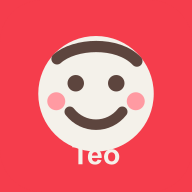
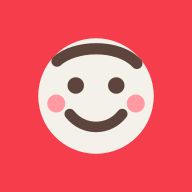
feat: harden hosting and add link previews for the friends launch
The live site served hashed bundles with max-age=0, answered robots.txt and
missing audio with the app page, sent only HSTS, and the link we will share
in chats had no preview. Hosting now caches hashed assets for a year, keeps
the friends build out of search results, limits browser permissions to the
microphone the recorder needs, forbids framing, and lets missing files 404.
The app icon drops the old Teo lettering, and Open Graph tags plus a
generated preview image make shared links readable.

diff --git a/src/pwa/pwaConfig.ts b/src/pwa/pwaConfig.ts
@@ -20,6 +20,8 @@ export const pwaBrand = {
   description: 'Slovenská predškolská aplikácia s hrami a rodičmi nahratým obsahom.',
   themeColor: '#F53D4C',
   backgroundColor: '#F4F1EA',
+  // Link previews need absolute URLs; this is the friends-and-family address.
+  siteUrl: 'https://mudrolino.vercel.app',
 } as const;
 
 export const pwaIcons = {
@@ -28,7 +30,27 @@ export const pwaIcons = {
   maskable512: '/pwa/pwa-maskable-512x512.png',
   appleTouch: '/pwa/apple-touch-icon.png',
   faviconSvg: '/pwa/teo-icon-source.svg',
+  openGraph: '/pwa/og-image.png',
 } as const;
+
+function meta(attrs: Record<string, string>): HtmlTagDescriptor {
+  return { tag: 'meta', attrs, injectTo: 'head' };
+}
+
+// Shared links (WhatsApp, Messenger, iMessage) render these as a preview card.
+const openGraphTags: HtmlTagDescriptor[] = [
+  meta({ name: 'description', content: pwaBrand.description }),
+  meta({ property: 'og:type', content: 'website' }),
+  meta({ property: 'og:site_name', content: pwaBrand.appName }),
+  meta({ property: 'og:title', content: pwaBrand.appName }),
+  meta({ property: 'og:description', content: pwaBrand.description }),
+  meta({ property: 'og:url', content: `${pwaBrand.siteUrl}/` }),
+  meta({ property: 'og:image', content: `${pwaBrand.siteUrl}${pwaIcons.openGraph}` }),
+  meta({ property: 'og:image:width', content: '1200' }),
+  meta({ property: 'og:image:height', content: '630' }),
+  meta({ property: 'og:locale', content: 'sk_SK' }),
+  meta({ name: 'twitter:card', content: 'summary_large_image' }),
+];
 
 export const pwaHtmlTitle = pwaBrand.appName;
 
@@ -92,6 +114,7 @@ export const pwaHtmlHeadTags: HtmlTagDescriptor[] = [
     },
     injectTo: 'head',
   },
+  ...openGraphTags,
 ];
 
 export const pwaControlCopy = {

diff --git a/src/pwa/pwaConfig.verify.ts b/src/pwa/pwaConfig.verify.ts
@@ -49,6 +49,18 @@ assert(
   'html head tags include a PNG favicon fallback',
 );
 
+const metaContent = (key: 'name' | 'property', value: string) =>
+  pwaHtmlHeadTags.find((tag) => tag.tag === 'meta' && tag.attrs?.[key] === value)?.attrs?.content;
+assert(pwaBrand.siteUrl.startsWith('https://') && !pwaBrand.siteUrl.endsWith('/'), 'site URL is absolute https without a trailing slash');
+assert(metaContent('property', 'og:title') === pwaBrand.appName, 'link previews show the app name');
+assert(metaContent('property', 'og:description') === pwaBrand.description, 'link previews show the app description');
+assert(metaContent('name', 'description') === pwaBrand.description, 'html head has a description');
+assert(
+  metaContent('property', 'og:image') === `${pwaBrand.siteUrl}${pwaIcons.openGraph}`,
+  'link preview image is an absolute URL, since preview crawlers do not resolve relative paths',
+);
+assert(metaContent('property', 'og:url') === `${pwaBrand.siteUrl}/`, 'link previews point at the app root');
+
 const iconSources = new Set(pwaManifest.icons.map((icon) => icon.src));
 assert(iconSources.has('/pwa/pwa-192x192.png'), 'manifest includes 192 icon');
 assert(iconSources.has('/pwa/pwa-512x512.png'), 'manifest includes 512 icon');

diff --git a/.claude/rules/pwa.md b/.claude/rules/pwa.md
@@ -17,13 +17,22 @@ title and injects head tags from `pwaConfig`, so an edit there is either
 overwritten or invisible. The empty `<title></title>` in the source file is
 deliberate.
 
-Head tags currently cover theme color, Apple metadata, the apple-touch-icon, and
-both favicons. Do not remove the favicon links: without them every page load
+Head tags currently cover theme color, Apple metadata, the apple-touch-icon,
+both favicons, and the description and Open Graph tags for link previews. Open
+Graph URLs are absolute and built from `pwaBrand.siteUrl`; update it when the
+app moves to another address. Do not remove the favicon links: without them every page load
 requests a nonexistent `/favicon.ico`, and that 404 fails the entire e2e suite
 through its console-error assertions.
 
-Icons under `public/pwa/` are generated from `teo-icon-source.svg` by
-`npm run pwa:icons`. Edit the SVG and regenerate; never hand-edit the PNGs.
+Icons under `public/pwa/`, including the 1200×630 `og-image.png`, are generated
+from `teo-icon-source.svg` by `npm run pwa:icons`. Edit the SVG and regenerate;
+never hand-edit the PNGs.
+
+`vercel.json` owns hosting rules: response headers (noindex for the
+friends-and-family build, security headers, a microphone-only permissions
+policy, immutable caching for hashed `/assets/*`) and the SPA rewrite. The
+rewrite skips `assets/`, `audio/`, `fonts/` and `pwa/` so a missing file returns
+a real 404 instead of the app page.
 
 Precache exclusions are deliberate: the avatar GLBs and the lazy
 `assets/AvatarScene-*.js` chunk are both left out, since the renderer is useless
